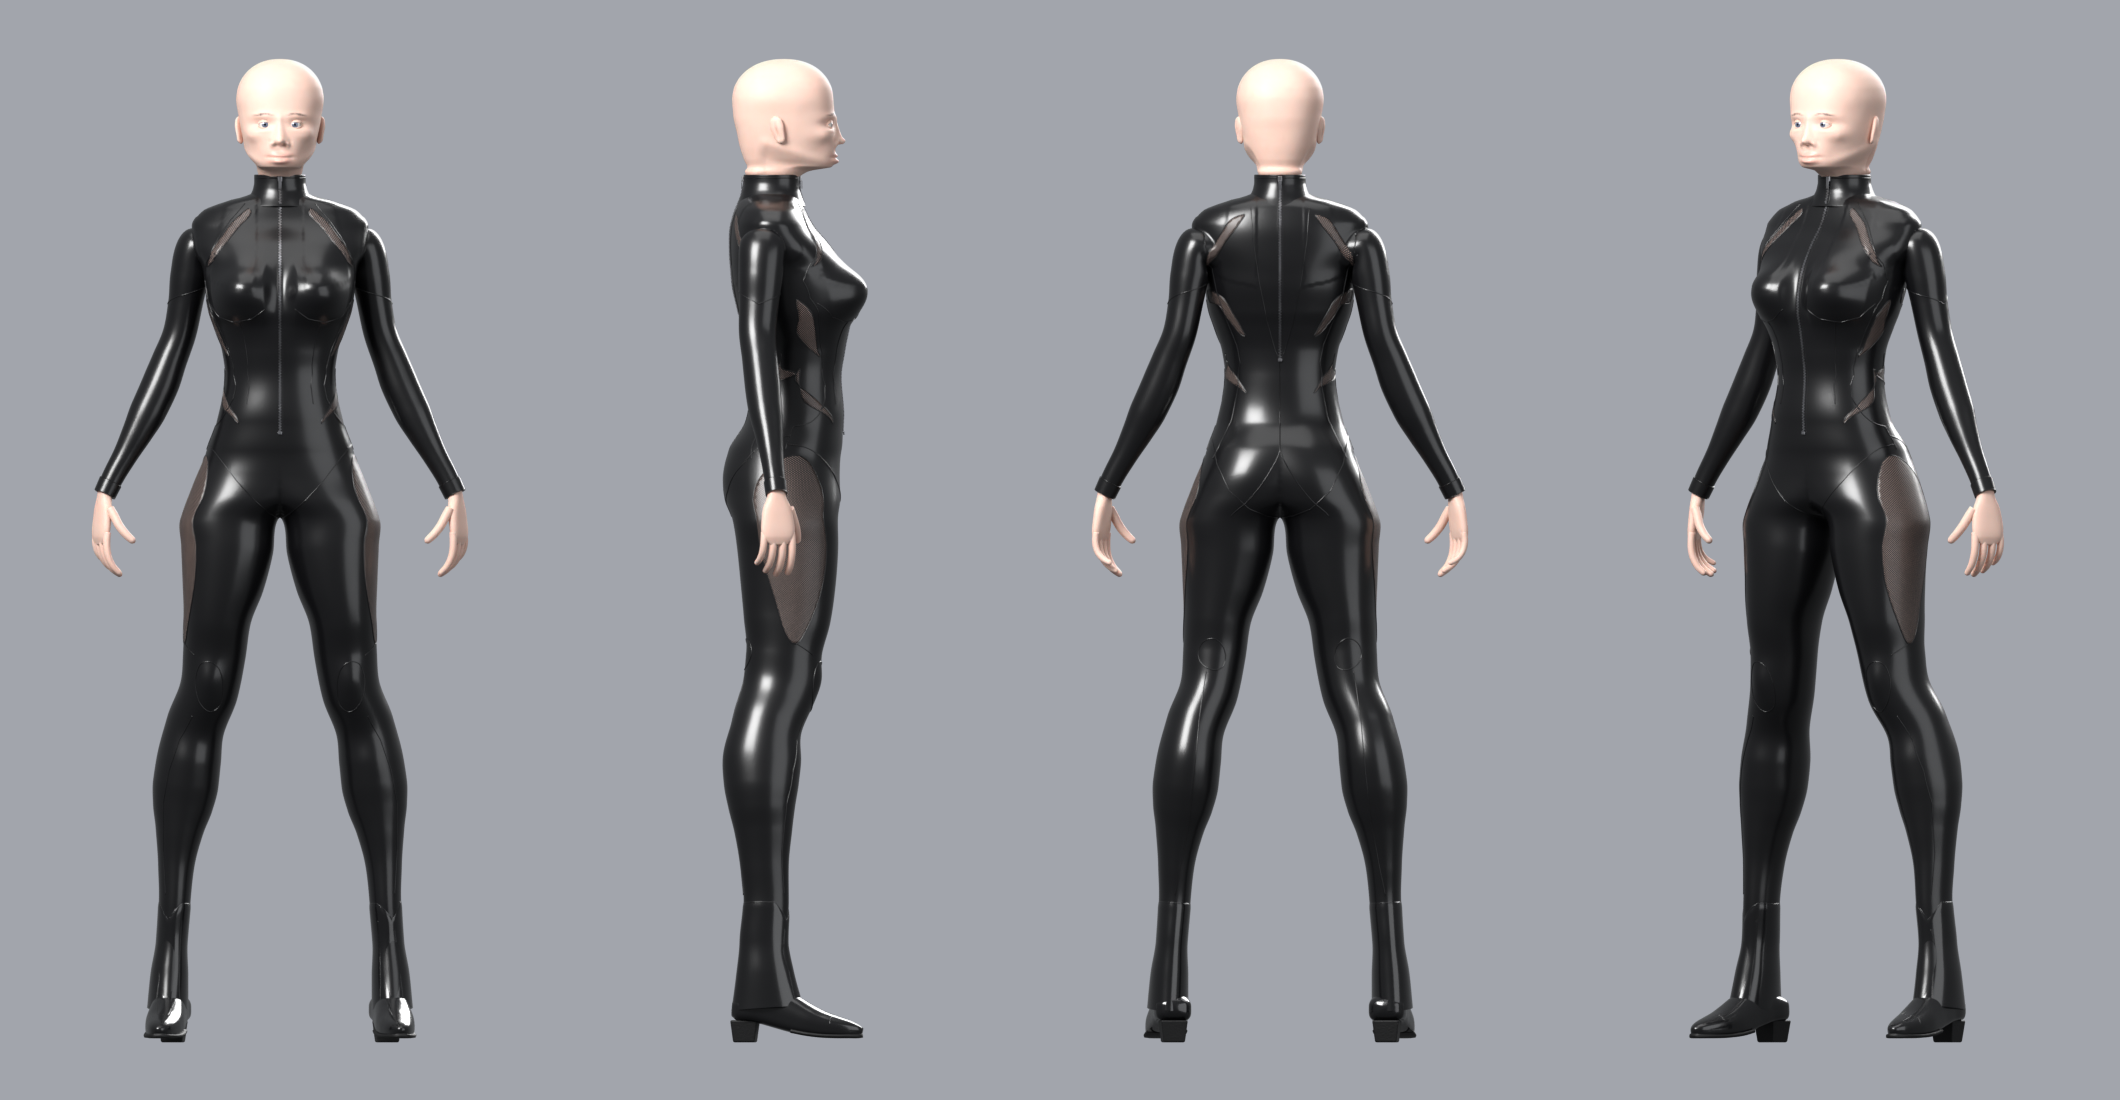
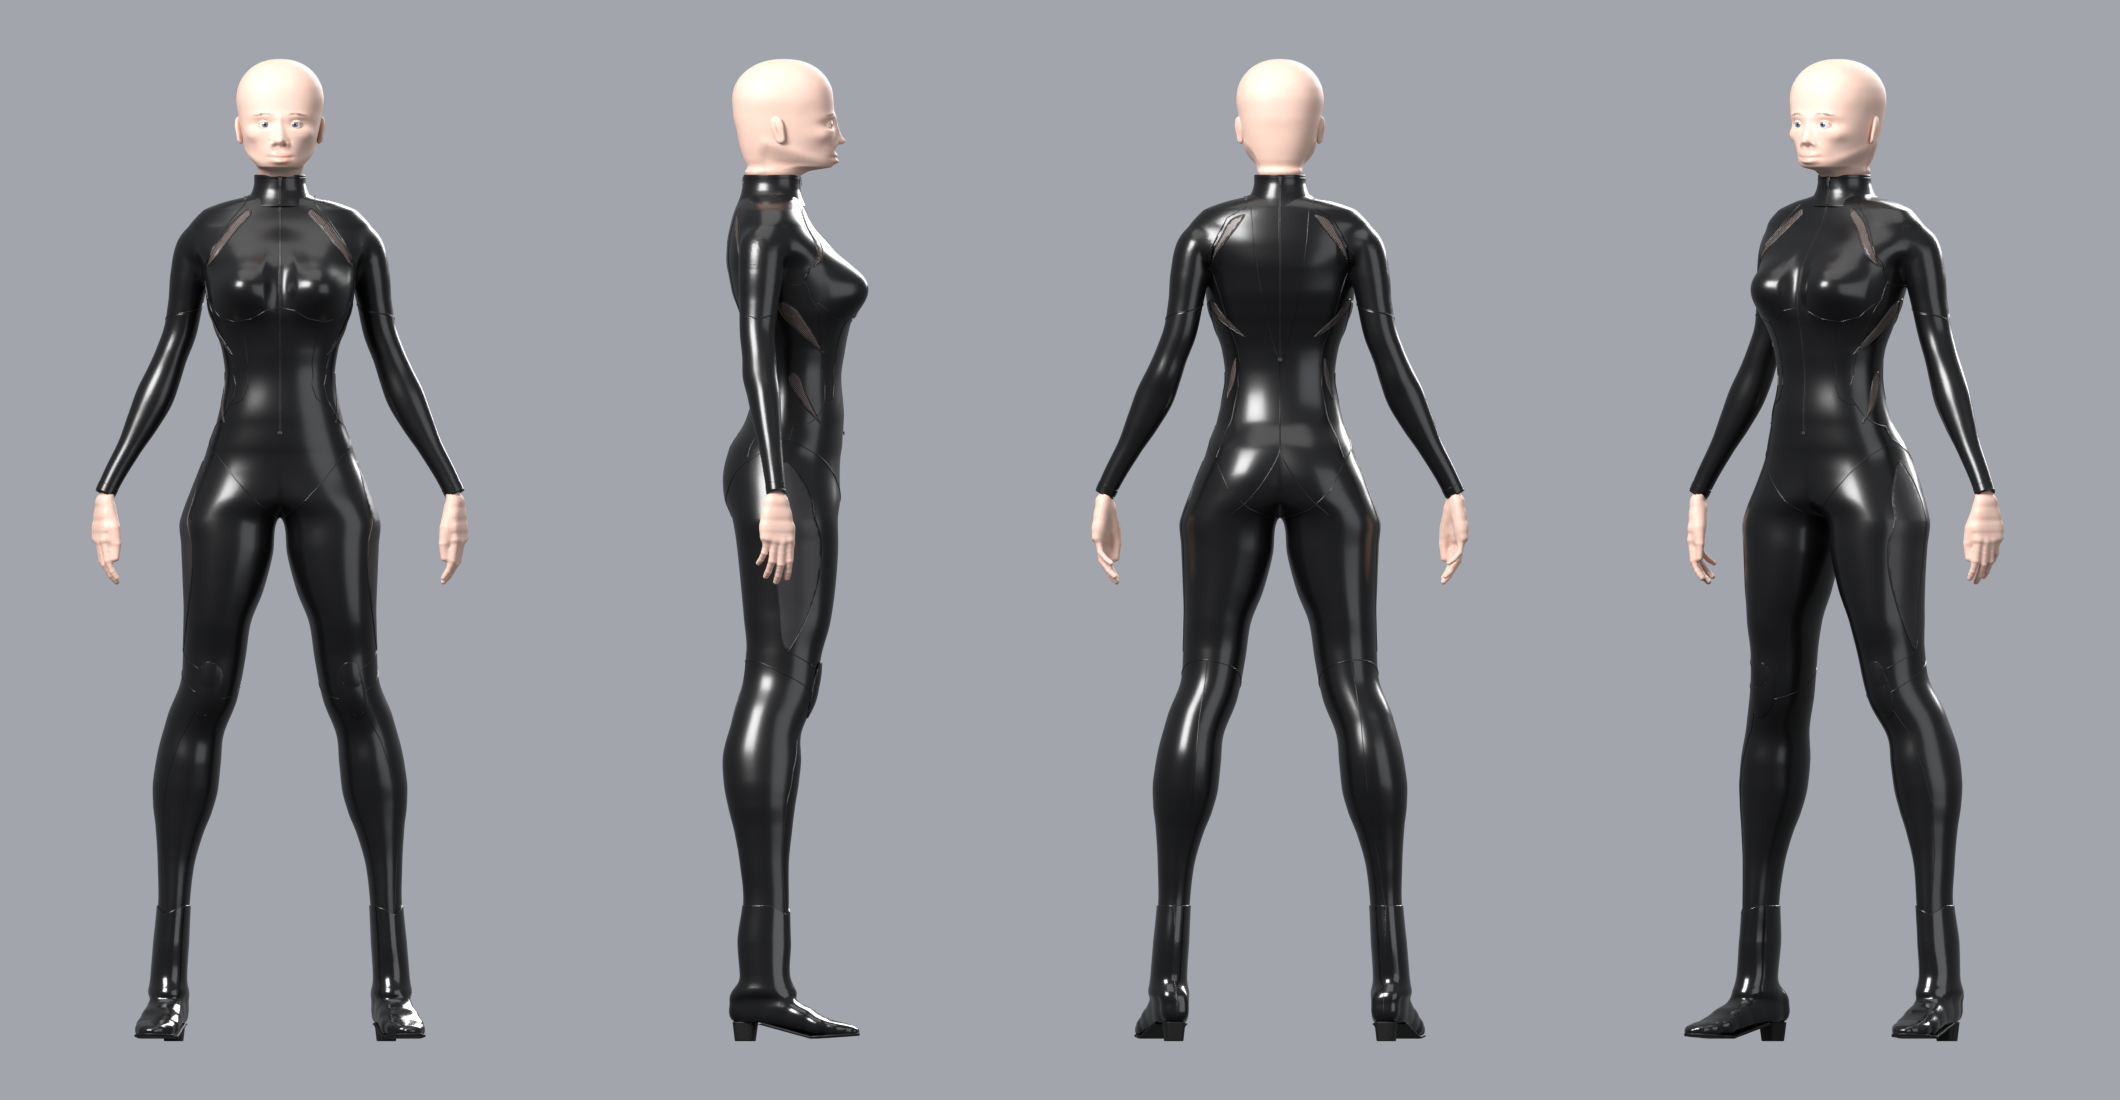
art(#33): Beatrice stage 3 -- renders, close-ups (hand_palm, shoulder_back, top_close, boot_side, armpit_back), smoother boot toe, slimmer hand inside the cuff, raglan cut raised clear of the armpit, provenance
Front 0.946 / 0.871 / 0.908, side 0.918 / 0.915 / 0.856, back 0.911 / 0.848 / 0.813; 60 parts, all closed.

diff --git a/art/characters/Beatrice/previews/index.html b/art/characters/Beatrice/previews/index.html
@@ -21,22 +21,39 @@
 </head>
 <body>
 <main>
-  <h1>Beatrice — body, suit, hands, boots (stage 2: correction round)</h1>
+  <h1>Beatrice — body, suit, hands, boots (stage 3: second correction round)</h1>
   <p>Built from Python alone on the shared character kit (<code>charkit/bodysuit.py</code>, Blender 4.5, Cycles) from the tables in
-     <code>scripts/beatrice.py</code>, now fitted to three drawings: front, side and back. The head is a bald placeholder for the
-     face-and-hair stage. Character only, no props. The stage-1 review this round answers: <code>review_stage1.md</code>. See <code>PROVENANCE.md</code>.</p>
+     <code>scripts/beatrice.py</code>, fitted to three drawings: front, side and back. The head is a bald placeholder for the
+     face-and-hair stage. Character only, no props. This round answers <code>review_stage2.md</code>: new hands, the shoulder and
+     arm as one surface, a sleek ankle boot, clean teardrop inserts and a dark-grey thigh panel, the S-curve of the back, a fine zip,
+     layered knee pads, thin cuffs, seams that end on other edges. See <code>PROVENANCE.md</code>.</p>
 
-  <h2>Hip shapes, side by side</h2>
-  <p>Three shapes built from table values only, in a matte grey so the gloss hides nothing, front and side, waist to knee. The orange
-     line is the drawing's outline (front view above, side view below); the concept sits beside the front row. <code>default</code>
-     is the build: the concept's hip ratios, a moderate seat. <code>sheet_hips</code> is the three drawings' width and full seat.</p>
-  <figure><img src="shape_vs_concept.jpg" alt="Three hip shapes in matte grey, front and side, with the drawing outlines"><figcaption>one step slimmer · default · sheet_hips (the drawings)</figcaption></figure>
+  <h2>Hands (the reviewer's first item)</h2>
+  <p>One closed surface per hand (<code>charkit/parts.py::bare_hand</code>): a palm narrow at the wrist and widest at the knuckles, a
+     rounded heel and a thumb pad, a two-segment thumb from the side of the palm's base, four fingers of different lengths in three
+     tapering phalanges with a slight knuckle and a rounded tip, relaxed curl and a little spread. The fingers grow out of the palm
+     through smooth fillets (webbing), no notch or step.</p>
+  <div class="pair">
+    <figure><img src="hand.jpg" alt="The back of the left hand"><figcaption>Back of the hand, from her left</figcaption></figure>
+    <figure><img src="hand_palm.jpg" alt="The palm and thumb"><figcaption>Palm and thumb, from behind and inside</figcaption></figure>
+  </div>
+
+  <h2>Shoulder and arm</h2>
+  <p>Torso and arm are one surface over the shoulder: the smooth union of the body and sleeve lofts, meshed on its own and bounded by
+     seam lines (in front the line from the collar to the armpit, behind a raglan seam outside the blade insert, a short seam under
+     the arm, and on the arm the drawn seam at the foot of the deltoid), so every join lies under a piping cord. No armhole ring.
+     The sleeve is refitted: a slim wrist, the forearm swelling under the elbow, a narrowing and a point at the elbow.</p>
+  <div class="grid">
+    <figure><img src="shoulder.jpg" alt="Shoulder from the front"><figcaption>Shoulder, front</figcaption></figure>
+    <figure><img src="shoulder_back.jpg" alt="Shoulder from behind"><figcaption>Shoulder, back</figcaption></figure>
+    <figure><img src="armpit_back.jpg" alt="Back of the armpit"><figcaption>Back of the armpit: the raglan seam beside the blade insert (still ragged here)</figcaption></figure>
+    <figure><img src="top_close.jpg" alt="Shoulders from above"><figcaption>From above, close: the shoulder line from neck to arm</figcaption></figure>
+  </div>
 
   <h2>The three drawings vs the model</h2>
-  <p>Silhouette overlap (IoU), default build, per height band (above the waist / waist to knee / knees down). Front 0.947 / 0.870 / 0.900;
-     side 0.918 / 0.917 / 0.869; back 0.913 / 0.837 / 0.832. The waist-to-knee band is narrower than the drawings on purpose
-     (<code>sheet_hips</code>: front 0.947, side 0.959, back 0.886). Knees down: the front and back drawings place the lower legs
-     1.8 cm apart and draw a high heel; the build splits the difference and wears the low heel asked for.</p>
+  <p id="scores">Silhouette overlap (IoU), default build, per height band (above the waist / waist to knee / knees down):
+     front 0.946 / 0.871 / 0.908 (whole 0.903); side 0.918 / 0.915 / 0.856; back 0.911 / 0.848 / 0.813. The waist-to-knee band is narrower than the drawings on purpose (the owner's slimmer hips). Knees down: the front and
+     back drawings place the lower legs apart and draw a high heel; the build splits the difference and wears the low heel asked for.</p>
   <div class="grid">
     <figure><img src="sheet_vs_reference.png" alt="Front drawing above the model"><figcaption>Front: drawing above, model below</figcaption></figure>
     <figure><img src="side_vs_reference.png" alt="Side drawing above the model"><figcaption>Side</figcaption></figure>
@@ -48,6 +65,11 @@
     <figure><img src="back_overlay.png" alt="Back overlay"><figcaption>Back overlay</figcaption></figure>
   </div>
 
+  <h2>Hip shapes, side by side (stage 2, unchanged)</h2>
+  <p>Three shapes built from table values only, matte grey, front and side, waist to knee, the drawing's outline in orange. The owner
+     chose <code>default</code>.</p>
+  <figure><img src="shape_vs_concept.jpg" alt="Three hip shapes in matte grey, front and side, with the drawing outlines"><figcaption>one step slimmer · default · sheet_hips (the drawings)</figcaption></figure>
+
   <h2>Turnaround</h2>
   <figure><img src="turnaround.png" alt="Front, side, back, three-quarter"><figcaption>Orthographic front, side, back, three-quarter</figcaption></figure>
 
@@ -55,9 +77,9 @@
   <div class="grid">
     <figure><img src="hero.jpg" alt="Three-quarter front"><figcaption>Three-quarter front</figcaption></figure>
     <figure><img src="hero_back.jpg" alt="Three-quarter back"><figcaption>Three-quarter back</figcaption></figure>
-    <figure><img src="side.jpg" alt="Side"><figcaption>Side</figcaption></figure>
-    <figure><img src="torso.jpg" alt="Torso"><figcaption>Torso: piping, shoulder slits, rib and waist crescents, toothed zip</figcaption></figure>
-    <figure><img src="torso_back.jpg" alt="Torso, back"><figcaption>Torso, back: zip down the spine, blade, rib and waist panels, the V seams</figcaption></figure>
+    <figure><img src="side.jpg" alt="Side"><figcaption>Side: the S-curve, the dark-grey thigh panel</figcaption></figure>
+    <figure><img src="torso.jpg" alt="Torso"><figcaption>Torso: piping, shoulder slits, teardrop inserts, fine zip</figcaption></figure>
+    <figure><img src="torso_back.jpg" alt="Torso, back"><figcaption>Torso, back: zip down the spine, blade and back inserts, raglan seams</figcaption></figure>
     <figure><img src="legs.jpg" alt="Legs and boots"><figcaption>Legs and boots</figcaption></figure>
     <figure><img src="head.jpg" alt="Placeholder head"><figcaption>Placeholder head (replaced in the next stage)</figcaption></figure>
     <figure><img src="top.jpg" alt="From above"><figcaption>From above (the game camera)</figcaption></figure>
@@ -67,12 +89,11 @@
 
   <h2>Close-ups</h2>
   <div class="grid">
-    <figure><img src="shoulder.jpg" alt="Shoulder and collar"><figcaption>Shoulder, collar, zip pull</figcaption></figure>
-    <figure><img src="flank.jpg" alt="Flank"><figcaption>Flank: the panels set in the suit</figcaption></figure>
+    <figure><img src="boot.jpg" alt="Boots"><figcaption>Ankle boots: the shaft hugs the leg into a slim ankle, almond toe, 3 cm block heel</figcaption></figure>
+    <figure><img src="boot_side.jpg" alt="Boot from the side"><figcaption>Boot from the side: heel curve, instep, full-length sole</figcaption></figure>
+    <figure><img src="flank.jpg" alt="Flank"><figcaption>Flank: teardrop inserts edged with piping</figcaption></figure>
     <figure><img src="flank_back.jpg" alt="Flank from behind"><figcaption>Flank from behind</figcaption></figure>
-    <figure><img src="knee.jpg" alt="Knees"><figcaption>Knee shields and shin seams</figcaption></figure>
-    <figure><img src="boot.jpg" alt="Boots"><figcaption>Ankle boots: low block heel, almond toe, V top</figcaption></figure>
-    <figure><img src="hand.jpg" alt="Hand"><figcaption>Hand and cuff</figcaption></figure>
+    <figure><img src="knee.jpg" alt="Knees"><figcaption>Layered knee pads in front, shin seams running into the boots</figcaption></figure>
   </div>
 </main>
 </body>

diff --git a/art/characters/Beatrice/scripts/beatrice.py b/art/characters/Beatrice/scripts/beatrice.py
@@ -178,10 +178,9 @@ SLEEVE_BACK = {"elbow": .0325, "elbow_top": .0300}
 
 # the raglan cut (bodysuit.Suit.in_torso_region): front = the start of THE line, back = the raglan seam
 # outside the blade insert, both down to RAGLAN_LOW under the arm (seams.body carries all three as piping)
-RAGLAN_FRONT = (("x", .060, 1.432), ("x", .086, 1.402), ("x", .110, 1.366), ("x", .126, 1.330), ("x", .128, 1.300), ("x", .123, 1.270))
-RAGLAN_BACK = (("bx", .058, 1.426), ("bx", .090, 1.409), ("bx", .106, 1.380), ("bx", .117, 1.350), ("bx", .119, 1.328), ("bx", .117, 1.300),
-               ("bx", .114, 1.270))
-RAGLAN_LOW = 1.270
+RAGLAN_FRONT = (("x", .060, 1.432), ("x", .086, 1.402), ("x", .110, 1.366), ("x", .126, 1.330), ("x", .128, 1.300), ("x", .1275, 1.293))
+RAGLAN_BACK = (("bx", .058, 1.426), ("bx", .090, 1.409), ("bx", .106, 1.380), ("bx", .117, 1.350), ("bx", .119, 1.328), ("bx", .1175, 1.293))
+RAGLAN_LOW = 1.293
 
 # the seam round the upper arm at the foot of the deltoid (side view: a shallow V, lowest on the outside):
 # z on the outer side, z on the inner side. The shoulder's own mesh meets the sleeve exactly here.
@@ -269,7 +268,7 @@ def dims(shape=None):
                     # behind: the raglan seam from the collar outside the blade insert to the back of the armpit, and
                     # under the arm the short seam joining it to THE line (the shoulder's own mesh ends on these)
                     RAGLAN_BACK,
-                    (("bx", .114, RAGLAN_LOW), ("phi", 0, RAGLAN_LOW), ("x", .123, RAGLAN_LOW)),
+                    (("bx", .1175, RAGLAN_LOW), ("phi", 0, RAGLAN_LOW), ("x", .1275, RAGLAN_LOW)),
                     # from the raglan seam at the back of the armpit down past the rib and waist panels, round the hip
                     (("bx", .119, 1.326), ("bx", .104, 1.280), ("bx", .090, 1.230), ("bx", .074, 1.190), ("bx", .068, 1.160),
                      ("bx", .076, 1.120), ("bx", .098, 1.070), ("bx", .120, 1.030), ("bx", .131, .996)),
@@ -335,7 +334,7 @@ def dims(shape=None):
                 sole_line=((0.002, 0.032), (-0.088, 0.008), (-0.166, 0.013)),
                 top=(0.232, 0.016, 0.95), ease=(0.0022, 0.0048), n=2.8, shaft_low=0.080, k=0.020,
                 sole=(0.0045, 0.012), heel=(0.032, 0.0185, 0.0205, 0.82),
-                suit_end=0.100, res=(0.0009, 0.0020)),
+                suit_end=0.100, res=(0.0009, 0.0020), foot_k=0.012, smooth=12),
         ),
     )
 
@@ -396,6 +395,7 @@ DEV_VIEWS = {
     # aimed close-ups (charkit/suitbuild.render_aimed): the palm and thumb of her left hand from
     # behind and inside, between the hand and the thigh
     "boot_side": dict(cam=(0.95, -0.05, 0.16), target=(0.19, 0.0, 0.14), lens=85.0, res=(900, 900)),
+    "armpit_back": dict(cam=(0.42, 0.62, 1.36), target=(0.13, 0.05, 1.28), lens=85.0, res=(900, 900)),
     "top_close": dict(cam=(0.0, -0.18, 2.45), target=(0.0, 0.0, 1.30), lens=50.0, res=(1000, 1000)),
     "hand_palm": dict(cam=(0.040, 0.380, 0.870), target=(0.305, 0.000, 0.860), lens=85.0, res=(900, 900)),
 }

diff --git a/art/characters/charkit/parts.py b/art/characters/charkit/parts.py
@@ -67,7 +67,7 @@ def hand(prefix, wrist, L, B, mat, coll, scale=1.0, curl=1.0, mirrored=True, gir
 BARE_HAND = dict(
     # the palm, wrist -> knuckles: (l, w centre, b centre, half-width, half-depth back, half-depth
     # palm, superellipse exponent); it starts inside the cuff and ends rounded under the knuckles
-    palm=((-0.028, 0.000, 0.0005, 0.0165, 0.0120, 0.0120, 2.2), (0.000, 0.000, 0.0005, 0.0182, 0.0112, 0.0120, 2.4),
+    palm=((-0.028, 0.000, 0.0005, 0.0138, 0.0105, 0.0105, 2.2), (0.000, 0.000, 0.0005, 0.0178, 0.0110, 0.0116, 2.4),
           (0.022, 0.0005, 0.0000, 0.0232, 0.0102, 0.0112, 2.7), (0.045, 0.000, -0.0005, 0.0272, 0.0092, 0.0104, 2.9),
           (0.062, -0.0008, -0.0010, 0.0285, 0.0085, 0.0095, 2.9)),
     palm_k=0.004,
@@ -86,13 +86,13 @@ BARE_HAND = dict(
     waist=0.94,             # each phalanx's middle against its two joints: the slight knuckle
     # the thumb, by its joint points (base inside the thenar pad, knuckle, joint, tip centre) and
     # half-widths there; `nail` = the direction its nail faces
-    thumb=dict(pts=((0.012, 0.0100, -0.0060), (0.044, 0.0255, -0.0145), (0.071, 0.0300, -0.0190), (0.095, 0.0290, -0.0200)),
-               r=(0.0100, 0.0084, 0.0075, 0.0064), depth=0.86, nail=(0.0, 0.75, 0.66), k=0.0075),
+    thumb=dict(pts=((0.014, 0.0085, -0.0085), (0.044, 0.0255, -0.0145), (0.071, 0.0300, -0.0190), (0.095, 0.0290, -0.0200)),
+               r=(0.0100, 0.0084, 0.0075, 0.0064), depth=0.86, nail=(0.0, 0.75, 0.66), k=0.0110),
     # pads (ellipsoids, smooth-unioned): centre (l, w, b), radii along (the axis, across, depth), axis
-    pads=(((0.032, 0.0130, -0.0085), (0.025, 0.0115, 0.0090), (0.85, 0.48, -0.22)),      # the thumb's pad (thenar)
+    pads=(((0.032, 0.0120, -0.0095), (0.026, 0.0112, 0.0088), (0.85, 0.48, -0.22)),      # the thumb's pad (thenar)
           ((0.040, -0.0165, -0.0060), (0.026, 0.0095, 0.0082), (1.0, -0.05, 0.0)),        # the heel under the little finger
           ((0.006, 0.0000, -0.0045), (0.012, 0.0165, 0.0095), (1.0, 0.0, 0.0))),          # the heel of the hand
-    pad_k=0.008,
+    pad_k=0.011,
     # the hollow of the palm: an ellipsoid smoothly subtracted (centre, radii (l, w, b), smoothing)
     hollow=((0.046, -0.002, -0.0205), (0.020, 0.015, 0.0085), 0.004),
     curl=1.0,

diff --git a/art/characters/charkit/bodysuit.py b/art/characters/charkit/bodysuit.py
@@ -883,7 +883,7 @@ def build_boots_implicit(S, M, coll="Boots"):
         d = None
         for (c0, r0), (c1, r1), q0, q1 in zip(nodes[:-1], nodes[1:], ratios[:-1], ratios[1:]):
             e = implicit.capsule(L, c0, c1, r0, r1, np.array([0.0, 0.0, 1.0]), ratio=(q0, q1), n=im.get("n", 2.6))
-            d = e if d is None else implicit.smin(d, e, 0.003)
+            d = e if d is None else implicit.smin(d, e, im.get("foot_k", 0.003))
         return d
 
     def field(P):
@@ -907,7 +907,7 @@ def build_boots_implicit(S, M, coll="Boots"):
     lo, hi = np.minimum(lo, hi), np.maximum(lo, hi)
     h = im["res"][0 if kit.RES < 0.006 else 1]
     V, Q = implicit.mesh_field(field, lo - 0.01, hi + 0.01, h)
-    V = implicit.taubin(V, Q, iters=4)
+    V = implicit.taubin(V, Q, iters=im.get("smooth", 4))
     L = local(V)
     back = np.clip((L[:, 1] - 0.0) / 0.01, 0.0, 1.0)                              # the back half only
     seam = 1.0 - np.minimum(np.where(back > 0.5, np.abs(L[:, 0]), 1.0), kit.SEAM_CAP) / kit.SEAM_CAP
